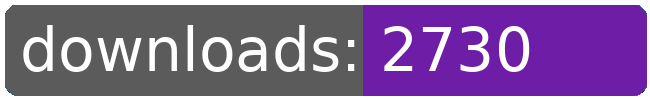
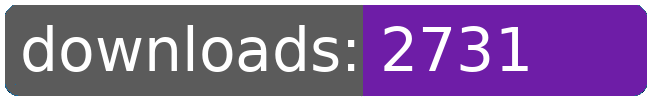
dl log written

Changed region(s): [[0.7692, 0.24, 0.8308, 0.72]]

diff --git a/README.md b/README.md
@@ -21,8 +21,8 @@
 		<td>5056</td>
 		<td>5087</td>
 		<td>5125</td>
-		<td>5135</td>
-		<td>+ 10</td>
+		<td>5137</td>
+		<td>+ 12</td>
 	</tr>
 	<tr>
 		<td>aberrant.kahet.outfitter</td>
@@ -175,8 +175,8 @@
 		<td>2706</td>
 		<td>2717</td>
 		<td>2726</td>
-		<td>2730</td>
-		<td>+ 4</td>
+		<td>2731</td>
+		<td>+ 5</td>
 	</tr>
 	<tr>
 		<td>purchaseable.cloakingdevice</td>
@@ -274,8 +274,8 @@
 		<td></td>
 		<td></td>
 		<td></td>
-		<td>74619</td>
-		<td>106</td>
+		<td>74622</td>
+		<td>109</td>
 	</tr>
 </table>
 </sub></sup>
@@ -300,8 +300,8 @@
 		<td>5056</td>
 		<td>5087</td>
 		<td>5125</td>
-		<td>5135</td>
-		<td>+ 10</td>
+		<td>5137</td>
+		<td>+ 12</td>
 	</tr>
 	<tr>
 		<td>aberrant.kahet.outfitter</td>
@@ -476,8 +476,8 @@
 		<td>2706</td>
 		<td>2717</td>
 		<td>2726</td>
-		<td>2730</td>
-		<td>+ 4</td>
+		<td>2731</td>
+		<td>+ 5</td>
 	</tr>
 	<tr>
 		<td>disable.aberrant.blockade</td>
@@ -553,8 +553,8 @@
 		<td></td>
 		<td></td>
 		<td></td>
-		<td>74619</td>
-		<td>106</td>
+		<td>74622</td>
+		<td>109</td>
 	</tr>
 </table>
 </sub></sup>
@@ -562,7 +562,6 @@
 <table>
 	<tr>
 		<td> </td>
-		<td>2026-04-22</td>
 		<td>2026-04-23</td>
 		<td>2026-04-24</td>
 		<td>2026-04-25</td>
@@ -571,10 +570,10 @@
 		<td>2026-04-28</td>
 		<td>2026-04-29</td>
 		<td>2026-04-30</td>
+		<td>2026-05-01</td>
 	</tr>
 	<tr>
 		<td>page views</td>
-		<td>15</td>
 		<td>8</td>
 		<td>32</td>
 		<td>12</td>
@@ -583,10 +582,10 @@
 		<td>17</td>
 		<td>16</td>
 		<td>15</td>
+		<td>25</td>
 	</tr>
 	<tr>
 		<td>unique visitors</td>
-		<td>7</td>
 		<td>6</td>
 		<td>12</td>
 		<td>5</td>
@@ -595,6 +594,7 @@
 		<td>8</td>
 		<td>7</td>
 		<td>9</td>
+		<td>8</td>
 	</tr>
 </table>
 <br>
@@ -608,8 +608,8 @@
 	</tr>
 	<tr>
 		<td>2025-10-15</td>
-		<td>5214</td>
-		<td>1579</td>
+		<td>5239</td>
+		<td>1587</td>
 		<td>192</td>
 		<td>21</td>
 	</tr>
@@ -622,8 +622,8 @@
 	</tr>
 	<tr>
 		<td>199</td>
-		<td>26.20</td>
-		<td>7.93</td>
+		<td>26.33</td>
+		<td>7.97</td>
 		<td></td>
 		<td></td>
 	</tr>
